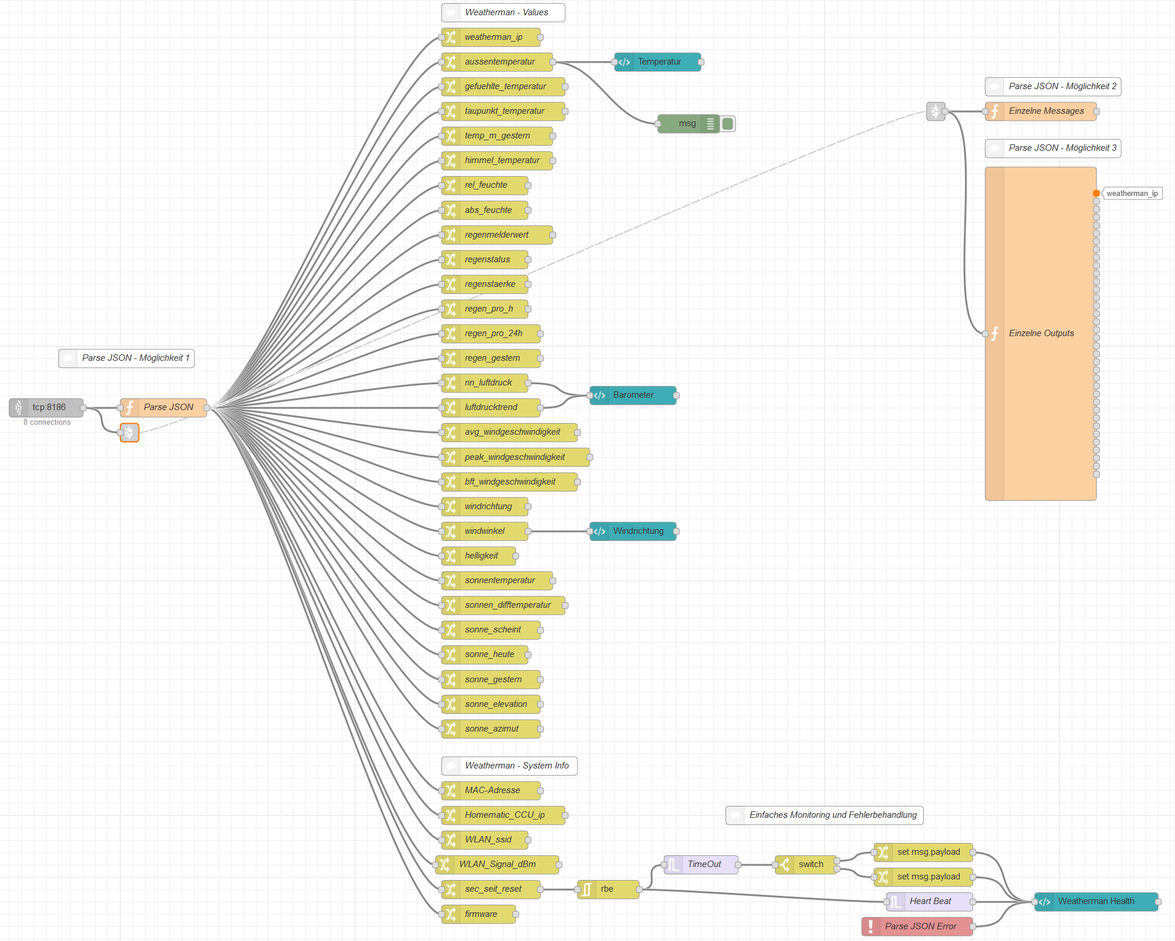
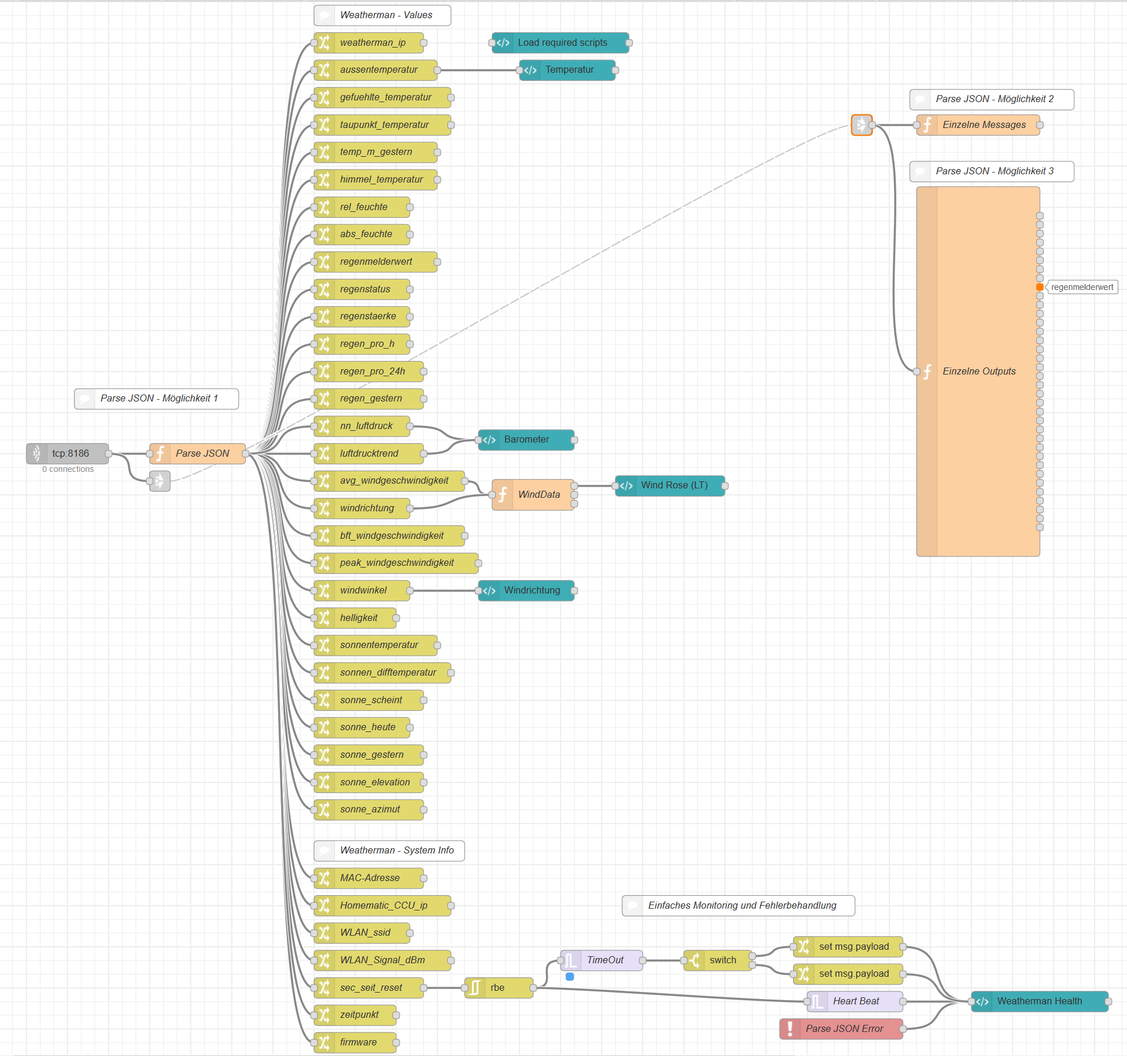
Add German description (#2)

Changed region(s): [[0.0, 0.0, 1.0, 1.0], [0.75, 0.0623, 1.0, 0.5299]]

diff --git a/flow.md b/flow.md
@@ -10,7 +10,7 @@
         "id": "47595dc.ba94324",
         "type": "tcp in",
         "z": "b016607a.570c28",
-        "name": "",
+        "name": "Listen Weatherman",
         "server": "server",
         "host": "",
         "port": "8186",
@@ -19,7 +19,7 @@
         "newline": "",
         "topic": "",
         "base64": false,
-        "x": 100,
+        "x": 110,
         "y": 800,
         "wires": [
             [
@@ -208,7 +208,7 @@
             "6ff5d495.9ca94c",
             "b1c34c3a.cf0f18"
         ],
-        "x": 1230,
+        "x": 1256,
         "y": 1640,
         "wires": [
             [
@@ -1438,13 +1438,13 @@
         "id": "30adad7a.1c38aa",
         "type": "rbe",
         "z": "b016607a.570c28",
-        "name": "",
+        "name": "WatchDog",
         "func": "rbe",
         "gap": "",
         "start": "",
         "inout": "out",
         "property": "payload",
-        "x": 730,
+        "x": 754,
         "y": 1580,
         "wires": [
             [
@@ -1467,7 +1467,7 @@
         "reset": "1",
         "bytopic": "all",
         "name": "TimeOut",
-        "x": 880,
+        "x": 906,
         "y": 1540,
         "wires": [
             [
@@ -1588,11 +1588,11 @@
         "order": 0,
         "width": "5",
         "height": "5",
-        "format": "<script type=\"text/javascript\" src=\"/addons/red/static/scripts/steelseries-min.js\"></script>\n<script type=\"text/javascript\" src=\"/addons/red/static/scripts/tween-min.js\"></script>\n\n<script>\nvar TrafLight;\nTrafLight = new steelseries.TrafficLight('canvasTrafLight', {\n              width: 100,\n              height: 200\n            });\n\n(function(scope){\n  scope.$watch('msg', function(msg) {\n    if (msg.payload === 1) {\n      TrafLight.setGreenOn(true);\n    } else if (msg.payload === 0) {\n      TrafLight.setGreenOn(false);\n    } else if (msg.payload === 'con_ok') {\n      TrafLight.setRedOn(false);\n      scope.conStatus = 'Connected';\n    } else if (msg.payload === 'con_timeout') {\n      TrafLight.setRedOn(true);\n      scope.conStatus = 'Connection Timeout';\n    } else if (msg.error !== undefined) {\n      TrafLight.setYellowOn(true);\n      scope.jsonStatus = 'JSON Error'\n    } \n  });\n}(scope));\nscope.conStatus = 'Connected';\nscope.jsonStatus = 'JSON OK';\n\n</script>\n\n\n<table width=\"100%\" border=\"0\">\n  <tbody>\n    <tr>\n      <td width=\"105\" rowspan=\"3\"><canvas id=\"canvasTrafLight\" width=\"100\" height=\"200\"></canvas></td>\n      <td>{{conStatus}}</td>\n    </tr>\n    <tr>\n      <td>{{jsonStatus}}</td>\n    </tr>\n    <tr>\n      <td>Heart Beat {{msg.timestamp}}</td>\n    </tr>\n  </tbody>\n</table>",
+        "format": "<script>\nvar TrafLight;\nTrafLight = new steelseries.TrafficLight('canvasTrafLight', {\n  width: 100,\n  height: 200\n});\n\n(function(scope){\n  scope.$watch('msg', function(msg) {\n    if (msg.payload !== undefined) {\n      if (msg.payload === 1) {\n        TrafLight.setGreenOn(true);\n      } else if (msg.payload === 0) {\n        TrafLight.setGreenOn(false);\n      } else if (msg.payload === 'con_ok') {\n        TrafLight.setRedOn(false);\n        scope.conStatus = 'Connected';\n      } else if (msg.payload === 'con_timeout') {\n        TrafLight.setRedOn(true);\n        scope.conStatus = 'Connection Timeout';\n      } else if (msg.error !== undefined) {\n        TrafLight.setYellowOn(true);\n        scope.jsonStatus = 'JSON Error';\n      }\n    }\n  });\n}(scope));\nscope.conStatus = 'Connected';\nscope.jsonStatus = 'JSON OK';\n</script>\n\n\n<table width=\"100%\" border=\"0\">\n  <tbody>\n    <tr>\n      <td width=\"105\" rowspan=\"3\"><canvas id=\"canvasTrafLight\" width=\"100\" height=\"200\"></canvas></td>\n      <td>{{conStatus}}</td>\n    </tr>\n    <tr>\n      <td>{{jsonStatus}}</td>\n    </tr>\n    <tr>\n      <td>Heart Beat {{msg.timestamp}}</td>\n    </tr>\n  </tbody>\n</table>",
         "storeOutMessages": true,
         "fwdInMessages": true,
         "templateScope": "local",
-        "x": 1520,
+        "x": 1546,
         "y": 1600,
         "wires": [
             []
@@ -1612,7 +1612,7 @@
         "reset": "",
         "bytopic": "all",
         "name": "Heart Beat",
-        "x": 1250,
+        "x": 1276,
         "y": 1600,
         "wires": [
             [
@@ -1639,7 +1639,7 @@
         "from": "",
         "to": "",
         "reg": false,
-        "x": 1240,
+        "x": 1266,
         "y": 1520,
         "wires": [
             [
@@ -1665,7 +1665,7 @@
         "checkall": "true",
         "repair": false,
         "outputs": 2,
-        "x": 1050,
+        "x": 1076,
         "y": 1540,
         "wires": [
             [
@@ -1695,7 +1695,7 @@
         "from": "",
         "to": "",
         "reg": false,
-        "x": 1240,
+        "x": 1266,
         "y": 1560,
         "wires": [
             [
@@ -1750,7 +1750,7 @@
         "order": 0,
         "width": "3",
         "height": "6",
-        "format": "<script type=\"text/javascript\" src=\"/addons/red/static/scripts/steelseries-min.js\"></script>\n<script type=\"text/javascript\" src=\"/addons/red/static/scripts/tween-min.js\"></script>\n\n<script>\nvar linearThermo;\nlinearThermo = new steelseries.Linear('canvasLinearThermo', {\n                 width: 140,\n                 height: 320,\n                 gaugeType: steelseries.GaugeType.TYPE2,\n                 titleString: \"Außentemperatur\",\n                 unitString: \"°C\",\n                 ledVisible: false,\n                 lcdVisible: true,\n                 thresholdRising: false,\n                 thresholdVisible: false,\n                 niceScale: true,\n                 minValue: -25,\n                 maxValue: 40\n               });\n                    \nlinearThermo.setFrameDesign(steelseries.FrameDesign.BLACK_METAL);\nlinearThermo.setBackgroundColor(steelseries.BackgroundColor.BRUSHED_METAL);\nlinearThermo.setValueAnimated(0);\nlinearThermo.setMaxValue(40);\n\n(function(scope){ \n  scope.$watch('msg', function(msg) {\n    if (msg.payload !== undefined && msg.topic === '/weatherman/status/w_temperature') {\n      linearThermo.setValueAnimated(msg.payload);\n      if (msg.payload > 0) {\n        linearThermo.setMaxValue(msg.payload + 2);\n        linearThermo.setMinValue(0);\n      } else if (msg.payload < 0) {\n        linearThermo.setMaxValue(0);\n        linearThermo.setMinValue(msg.payload - 2);\n      }\n    }\n  });\n})(scope);\n</script>\n\n<canvas id=\"canvasLinearThermo\" width=\"140\" height=\"320\"></canvas>\n",
+        "format": "<script>\nvar linearThermo;\nlinearThermo = new steelseries.Linear('canvasLinearThermo', {\n                 width: 140,\n                 height: 320,\n                 gaugeType: steelseries.GaugeType.TYPE2,\n                 titleString: \"Außentemperatur\",\n                 unitString: \"°C\",\n                 ledVisible: false,\n                 lcdVisible: true,\n                 thresholdRising: false,\n                 thresholdVisible: false,\n                 niceScale: true,\n                 minValue: -25,\n                 maxValue: 40\n               });\n                    \nlinearThermo.setFrameDesign(steelseries.FrameDesign.BLACK_METAL);\nlinearThermo.setBackgroundColor(steelseries.BackgroundColor.BRUSHED_METAL);\nlinearThermo.setValueAnimated(0);\nlinearThermo.setMaxValue(40);\n\n(function(scope){ \n  scope.$watch('msg', function(msg) {\n    if (msg.payload !== undefined && msg.topic === '/weatherman/status/w_temperature') {\n      linearThermo.setValueAnimated(msg.payload);\n      if (msg.payload > 0) {\n        linearThermo.setMaxValue(msg.payload + 2);\n        linearThermo.setMinValue(0);\n      } else if (msg.payload < 0) {\n        linearThermo.setMaxValue(0);\n        linearThermo.setMinValue(msg.payload - 2);\n      }\n    }\n  });\n})(scope);\n</script>\n\n<canvas id=\"canvasLinearThermo\" width=\"140\" height=\"320\"></canvas>\n",
         "storeOutMessages": true,
         "fwdInMessages": true,
         "templateScope": "local",
@@ -1855,7 +1855,7 @@
         "z": "b016607a.570c28",
         "name": "Einfaches Monitoring und Fehlerbehandlung",
         "info": "",
-        "x": 1080,
+        "x": 1106,
         "y": 1460,
         "wires": []
     },
@@ -1900,7 +1900,7 @@
         "order": 0,
         "width": "5",
         "height": "5",
-        "format": "<script>\n\n/*\n * Version 6 of the Windrose/Radar gauge\n * Originally created by Mark Crossley\n * Source: https://www.weather-watch.com/smf/index.php/topic,55071.0.html\n *\n */\n\n\n// Create some global variables to hold references to the buffers\nvar g_bufferRadar, g_bufferRadarFrame, g_bufferRadarBackground,\n    g_bufferRadarForeground, g_ctxRadarGauge;\nvar g_radarPlotSize;\n\n// Global variables that already exist in gauges-ss, if merging into gauge-ss, you\n// DO NOT need to add these\nvar g_size = 281;\nvar data = {};\nvar g_frameDesign = steelseries.FrameDesign.BLACK_METAL;\nvar g_background = steelseries.BackgroundColor.BRUSHED_METAL;\nvar g_foreground = steelseries.ForegroundType.TYPE1;\nvar LANG = {};\nLANG.compass = ['N', 'NE', 'E', 'SE', 'S', 'SW', 'W', 'NW'];\n\n// Optional - background image - Already in gauges-ss\n//var g_imgPathURL = 'images/';\n//var g_imgSmall = document.createElement(\"img\");                     //  background image\n//g_imgSmall.setAttribute(\"src\", g_imgPathURL + \"logoLarge.png\");\n\nfunction init() {\n\n  // Calcuate the size of the gauge background and so the size of radar plot required\n  g_radarPlotSize = g_size * 0.68;\n\n  // Create a hidden div to host the Radar plot\n  var div = document.createElement('div');\n  div.style.display = 'none';\n  document.body.appendChild(div);\n\n  // radar plot canvas buffer\n  g_bufferRadar = document.createElement('canvas');\n  g_bufferRadar.width = g_radarPlotSize;\n  g_bufferRadar.height = g_radarPlotSize;\n  g_bufferRadar.id = 'radarPlot';\n  div.appendChild(g_bufferRadar);\n\n  // Create a steelseries gauge frame\n  g_bufferRadarFrame = document.createElement('canvas');\n  g_bufferRadarFrame.width = g_size;\n  g_bufferRadarFrame.height = g_size;\n  var ctxFrame = g_bufferRadarFrame.getContext('2d');\n  steelseries.drawFrame(ctxFrame, g_frameDesign, g_size/2, g_size/2, g_size, g_size);\n\n  // Create a steelseries gauge background\n  g_bufferRadarBackground = document.createElement('canvas');\n  g_bufferRadarBackground.width = g_size;\n  g_bufferRadarBackground.height = g_size;\n  var ctxBackground = g_bufferRadarBackground.getContext('2d');\n  steelseries.drawBackground(ctxBackground, g_background, g_size/2, g_size/2, g_size, g_size);\n  // Optional - add a background image\n  //var drawSize = g_size * 0.831775;\n  //var x = (g_size - drawSize) / 2;\n  //ctxBackground.drawImage(g_imgSmall, x, x, drawSize, drawSize);\n\n  // Add the compass points\n  drawCompassPoints(ctxBackground, g_size);\n\n  // Create a steelseries gauge forground\n  g_bufferRadarForeground = document.createElement('canvas');\n  g_bufferRadarForeground.width = g_size;\n  g_bufferRadarForeground.height = g_size;\n  var ctxForegound = g_bufferRadarForeground.getContext('2d');\n  steelseries.drawForeground(ctxForegound, g_foreground, g_size, g_size, false);\n\n  // Get the context of the gauge canavs on the HTML page\n  g_ctxRadarGauge = document.getElementById('canvasGauge').getContext('2d');\n}\n\n\n// Just draw an empty gauge as a placeholder when the page loads\nfunction drawWindRose() {\n  // Paint the gauge frame\n  g_ctxRadarGauge.drawImage(g_bufferRadarFrame, 0, 0);\n\n  // Paint the gauge background\n  g_ctxRadarGauge.drawImage(g_bufferRadarBackground, 0, 0);\n\n  // Paint the gauge foreground\n  g_ctxRadarGauge.drawImage(g_bufferRadarForeground, 0, 0);\n}\n\n// Redraw the gauge with data\nfunction doWindRose() {\n  console.log(data.WindRoseData);\n  // Clear the gauge\n  g_ctxRadarGauge.clearRect(0, 0, g_size, g_size);\n\n  // Clear the existing radar plot\n  g_bufferRadar.width = g_bufferRadar.height = g_radarPlotSize;\n\n  // Create a new radar plot\n  var radar = new RGraph.Radar('radarPlot', data.WindRoseData);\n  radar.Set('chart.strokestyle', 'black');\n  radar.Set('chart.colors.alpha', 0.4);\n  radar.Set('chart.colors', ['red']);\n\n  radar.Set('chart.title', 'Wind  Rose');\n  radar.Set('chart.title.size', Math.ceil(0.045 * g_radarPlotSize));\n  radar.Set('chart.title.bold', false);\n  radar.Set('chart.gutter.top', 0.2 * g_radarPlotSize);\n  radar.Set('chart.gutter.bottom', 0.2 * g_radarPlotSize);\n\n  radar.Set('chart.tooltips.effect', 'snap');\n  radar.Set('chart.labels.axes', '');\n  radar.Set('chart.background.circles', true);\n  radar.Set('chart.radius', g_radarPlotSize/2);\n  radar.Draw();\n\n  // Paint the gauge frame\n  g_ctxRadarGauge.drawImage(g_bufferRadarFrame, 0, 0);\n\n  // Paint the gauge background\n  g_ctxRadarGauge.drawImage(g_bufferRadarBackground, 0, 0);\n\n  // Paint the radar plot\n  var offset = (g_size - g_radarPlotSize) / 2;\n  g_ctxRadarGauge.drawImage(g_bufferRadar, offset, offset);\n\n  // Paint the gauge foreground\n  g_ctxRadarGauge.drawImage(g_bufferRadarForeground, 0, 0);\n\n}\n\n\n// Helper function to put the compass points on the background\nfunction drawCompassPoints(ctx, size) {\n  ctx.save();\n  // set the font\n  ctx.font = (0.06 * size) + 'px serif';\n  ctx.fillStyle = '#000000';\n  ctx.textAlign = 'center';\n  ctx.textBaseline = 'middle';\n\n  // Draw the compass points\n  for (var i=0; i<4; i++) {\n    ctx.translate(size/2, size*0.125);\n    ctx.fillText(LANG.compass[i*2], 0, 0, size);\n    ctx.translate(-size/2, -size*0.125);\n    // Move to center\n    ctx.translate(size/2, size/2);\n    ctx.rotate(Math.PI/2);\n    ctx.translate(-size/2, -size/2);\n  }\n  ctx.restore();\n}\n// Initial setup\ninit();\ndrawWindRose();\n\n(function(scope) {\n  scope.$watch('msg', function(msg) {\n    if (msg.payload !== undefined) {\n      drawWindRose();\n      data.WindRoseData = msg.payload;\n      doWindRose();\n    }\n  });\n}(scope));\n\n</script>\n\n<canvas id=\"canvasGauge\" width=\"301\" height=\"301\">No canvas in your browser...sorry...</canvas>\n\n\n\n\n\n",
+        "format": "<script>\n\n/*\n * Version 6 of the Windrose/Radar gauge\n * Originally created by Mark Crossley\n * Source: https://www.weather-watch.com/smf/index.php/topic,55071.0.html\n *\n */\n\n\n// Create some global variables to hold references to the buffers\nvar g_bufferRadar, g_bufferRadarFrame, g_bufferRadarBackground,\n    g_bufferRadarForeground, g_ctxRadarGauge;\nvar g_radarPlotSize;\n\n// Global variables that already exist in gauges-ss, if merging into gauge-ss, you\n// DO NOT need to add these\nvar g_size = 281;\nvar data = {};\nvar g_frameDesign = steelseries.FrameDesign.BLACK_METAL;\nvar g_background = steelseries.BackgroundColor.BRUSHED_METAL;\nvar g_foreground = steelseries.ForegroundType.TYPE1;\nvar LANG = {};\nLANG.compass = ['N', 'NE', 'E', 'SE', 'S', 'SW', 'W', 'NW'];\n\n// Optional - background image - Already in gauges-ss\n//var g_imgPathURL = 'images/';\n//var g_imgSmall = document.createElement(\"img\");                     //  background image\n//g_imgSmall.setAttribute(\"src\", g_imgPathURL + \"logoLarge.png\");\n\nfunction init() {\n\n  // Calcuate the size of the gauge background and so the size of radar plot required\n  g_radarPlotSize = g_size * 0.68;\n\n  // Create a hidden div to host the Radar plot\n  var div = document.createElement('div');\n  div.style.display = 'none';\n  document.body.appendChild(div);\n\n  // radar plot canvas buffer\n  g_bufferRadar = document.createElement('canvas');\n  g_bufferRadar.width = g_radarPlotSize;\n  g_bufferRadar.height = g_radarPlotSize;\n  g_bufferRadar.id = 'radarPlot';\n  div.appendChild(g_bufferRadar);\n\n  // Create a steelseries gauge frame\n  g_bufferRadarFrame = document.createElement('canvas');\n  g_bufferRadarFrame.width = g_size;\n  g_bufferRadarFrame.height = g_size;\n  var ctxFrame = g_bufferRadarFrame.getContext('2d');\n  steelseries.drawFrame(ctxFrame, g_frameDesign, g_size/2, g_size/2, g_size, g_size);\n\n  // Create a steelseries gauge background\n  g_bufferRadarBackground = document.createElement('canvas');\n  g_bufferRadarBackground.width = g_size;\n  g_bufferRadarBackground.height = g_size;\n  var ctxBackground = g_bufferRadarBackground.getContext('2d');\n  steelseries.drawBackground(ctxBackground, g_background, g_size/2, g_size/2, g_size, g_size);\n  // Optional - add a background image\n  //var drawSize = g_size * 0.831775;\n  //var x = (g_size - drawSize) / 2;\n  //ctxBackground.drawImage(g_imgSmall, x, x, drawSize, drawSize);\n\n  // Add the compass points\n  drawCompassPoints(ctxBackground, g_size);\n\n  // Create a steelseries gauge forground\n  g_bufferRadarForeground = document.createElement('canvas');\n  g_bufferRadarForeground.width = g_size;\n  g_bufferRadarForeground.height = g_size;\n  var ctxForegound = g_bufferRadarForeground.getContext('2d');\n  steelseries.drawForeground(ctxForegound, g_foreground, g_size, g_size, false);\n\n  // Get the context of the gauge canavs on the HTML page\n  g_ctxRadarGauge = document.getElementById('canvasGauge').getContext('2d');\n}\n\n\n// Just draw an empty gauge as a placeholder when the page loads\nfunction drawWindRose() {\n  // Paint the gauge frame\n  g_ctxRadarGauge.drawImage(g_bufferRadarFrame, 0, 0);\n\n  // Paint the gauge background\n  g_ctxRadarGauge.drawImage(g_bufferRadarBackground, 0, 0);\n\n  // Paint the gauge foreground\n  g_ctxRadarGauge.drawImage(g_bufferRadarForeground, 0, 0);\n}\n\n// Redraw the gauge with data\nfunction doWindRose() {\n  //console.log(data.WindRoseData);\n  // Clear the gauge\n  g_ctxRadarGauge.clearRect(0, 0, g_size, g_size);\n\n  // Clear the existing radar plot\n  g_bufferRadar.width = g_bufferRadar.height = g_radarPlotSize;\n\n  // Create a new radar plot\n  var radar = new RGraph.Radar('radarPlot', data.WindRoseData);\n  radar.Set('chart.strokestyle', 'black');\n  radar.Set('chart.colors.alpha', 0.4);\n  radar.Set('chart.colors', ['red']);\n\n  radar.Set('chart.title', 'Wind  Rose');\n  radar.Set('chart.title.size', Math.ceil(0.045 * g_radarPlotSize));\n  radar.Set('chart.title.bold', false);\n  radar.Set('chart.gutter.top', 0.2 * g_radarPlotSize);\n  radar.Set('chart.gutter.bottom', 0.2 * g_radarPlotSize);\n\n  radar.Set('chart.tooltips.effect', 'snap');\n  radar.Set('chart.labels.axes', '');\n  radar.Set('chart.background.circles', true);\n  radar.Set('chart.radius', g_radarPlotSize/2);\n  radar.Draw();\n\n  // Paint the gauge frame\n  g_ctxRadarGauge.drawImage(g_bufferRadarFrame, 0, 0);\n\n  // Paint the gauge background\n  g_ctxRadarGauge.drawImage(g_bufferRadarBackground, 0, 0);\n\n  // Paint the radar plot\n  var offset = (g_size - g_radarPlotSize) / 2;\n  g_ctxRadarGauge.drawImage(g_bufferRadar, offset, offset);\n\n  // Paint the gauge foreground\n  g_ctxRadarGauge.drawImage(g_bufferRadarForeground, 0, 0);\n\n}\n\n\n// Helper function to put the compass points on the background\nfunction drawCompassPoints(ctx, size) {\n  ctx.save();\n  // set the font\n  ctx.font = (0.06 * size) + 'px serif';\n  ctx.fillStyle = '#000000';\n  ctx.textAlign = 'center';\n  ctx.textBaseline = 'middle';\n\n  // Draw the compass points\n  for (var i=0; i<4; i++) {\n    ctx.translate(size/2, size*0.125);\n    ctx.fillText(LANG.compass[i*2], 0, 0, size);\n    ctx.translate(-size/2, -size*0.125);\n    // Move to center\n    ctx.translate(size/2, size/2);\n    ctx.rotate(Math.PI/2);\n    ctx.translate(-size/2, -size/2);\n  }\n  ctx.restore();\n}\n\n(function(scope) {\n  init();\n  drawWindRose();\n  scope.$watch('msg', function(msg) {\n    if (msg.payload !== undefined) {\n    //  drawWindRose();\n      data.WindRoseData = msg.payload;\n      doWindRose();\n    }\n  });\n}(scope));\n\n</script>\n\n<canvas id=\"canvasGauge\" width=\"301\" height=\"301\">No canvas in your browser...sorry...</canvas>\n\n\n\n\n\n",
         "storeOutMessages": true,
         "fwdInMessages": true,
         "templateScope": "local",

diff --git a/README_DE.md b/README_DE.md
@@ -1,0 +1,205 @@
+
+# node-red-contrib-weatherman
+
+Dieser Flow erlaubt es die JSON Daten des [Weatherman's](https://www.stall.biz/project/weatherman-die-perfekte-wetterstation-fuer-die-hausautomation) zu verarbeiten und in einem Dashboard zu visualisieren. Dieser Flow geht von der Verwendung auf einer CCU3 / [RaspberryMatic](https://github.com/jens-maus/RaspberryMatic#raspberrymatic) und [RedMatic](https://github.com/hobbyquaker/RedMatic) aus. Beispielhaft wird dargestellt:
+
+ - 3 Möglichkeiten JSON auszulesen
+ - Einfache Möglichkeit den Weatherman und die Verbindung zu überwachen
+ - Eine einfache UI unter Verwendung von [RGraph](https://www.rgraph.net/) und [Steelseries Gauges](https://github.com/HanSolo/SteelSeries-Canvas)
+   - [Demo Radial](http://www.wilmslowastro.com/steelseries/demoRadial.html) 
+   - [Demo Linear](http://www.wilmslowastro.com/steelseries/demoLinear.html)
+   - [Demo Extra](http://www.wilmslowastro.com/steelseries/demoExtras.html)
+   - [Demo Traffic Light](http://www.wilmslowastro.com/steelseries/demoTrafficLight.html)
+   - [Demo Radar](http://www.wilmslowastro.com/steelseries/radar/radar.html)
+   - [Demo Bulb](http://www.wilmslowastro.com/steelseries/demoLightBulb.html)
+
+Die hier dargestellte Visualisierung soll nur als Anregung dienen und die obigen Beispiele zeigen, welche Möglichkeiten die Steelseries Gauges noch bieten.
+
+Sollte hier jemand schicke Ergänzungen vornehmen, würde ich mich über ein Pull-Request oder ein Teilen des Flows freuen.
+
+## Flow
+
+<img src="https://raw.githubusercontent.com/Sineos/node-red-contrib-weatherman/master/src_readme/flow.png" width="400"/>
+
+### Import Flow
+
+Den Inhalt von [raw flow.md](https://raw.githubusercontent.com/Sineos/node-red-contrib-weatherman/master/flow.md) kopieren und in Node-Red importieren.
+
+## Dashboard
+
+<img src="https://raw.githubusercontent.com/Sineos/node-red-contrib-weatherman/master/src_readme/dash.png" width="400"/>
+
+## Vorbereitungen
+
+### Weatherman
+
+Der Weatherman sendet seine Daten standardmäßig zum lighthttp proxy der CCU auf Port 8181. Da hier die Integration über RedMatic erfolgen soll, muss der Port in Weatherman geändert werden, da der Port nicht doppelt von der CCU und RedMatic verwendet werden kann.
+
+Die Änderung des Ports erfolgt über: `http://<ip weatherman>/param:12:<port>`
+
+Der Flow hier verwendet z.B. den Port 8186
+
+Für diese Anwendung ist eine minimale Firmware-Version v65 Voraussetzung
+
+### RedMatic
+
+In RedMatic bzw. Node Red muss ein `httpStatic` Verzeichnis eingerichtet werden, um die zusätzlichen Skript-Bibliotheken von RGraph und SteelSeries verwenden zu können.
+
+#### SSH Zugang aktivieren
+
+Um die entsprechenden Einstellungen vornehmen zu können muss der SSH Zugang aktiviert werden. Eine kurze Anleitung findet sich z.B. [hier](https://homematic.simdorn.net/ssh-zugang-auf-ccu2-einrichten/).
+
+#### httpStatic Verzeichnis und Skript Dateien 
+
+Mit dem SSH Zugang wird ein neues Verzeichnis für die entsprechenden Skripte angelegt. Der Flow hier verwendet:
+
+    /usr/local/sdcard/www/addons/red/static/scripts
+Dieses Verzeichnis muss angelegt werden und folgende Dateien müssen hochgeladen werden:
+
+- [steelseries-min.js](https://github.com/HanSolo/SteelSeries-Canvas/blob/master/steelseries-min.js)
+- [tween-min.js](https://github.com/HanSolo/SteelSeries-Canvas/blob/master/tween-min.js)
+- `RGraph.common.core.js` und `RGraph.radar.js` aus dem [minified RGraph zip](https://www.rgraph.net/download.html)
+
+#### httpStatic aktivieren
+
+Um das, im vorherigen Schritt angelegte, Verzeichnis in Node-Red bekannt zu machen, muss die Datei `settings.json` editiert werden. In RedMatic liegt diese unter:
+
+    /usr/local/addons/redmatic/etc/settings.json
+Diese Datei muss um den Eintrag `"httpStatic": "/usr/local/sdcard/www"` ergänzt werden und sieht dann beispielhaft so aus:
+```
+{
+	"uiPort": 1880,
+	"uiHost": "127.0.0.1",
+	"flowFile": "flows.json",
+	"userDir": "/usr/local/addons/redmatic/var",
+	"httpRoot": "/addons/red",
+	"httpStatic": "/usr/local/sdcard/www",
+	"logging": {
+		"ain": {
+			"level": "info",
+			"metrics": false,
+			"audit": false
+		}
+	}
+} 
+```
+
+Im Anschluss zu diesen Einstellungen muss RedMatic neu gestartet werden.
+
+## Konfiguration der einzelnen Nodes
+
+In der weiteren Erklärung wird auf einzelne Nodes näher eingegangen.
+
+### TCP in Node: Listen Weatherman
+
+https://raw.githubusercontent.com/Sineos/node-red-contrib-weatherman/master/src_readme/tcp_in.png" width="400"/>
+
+#### Beschreibung
+
+Verbindungspunkt zum Weatherman.
+
+#### Funktion
+
+ - Öffnet einen Server Port (hier 8186) zu dem sich der Weatherman periodisch verbindet
+ - Das eingehende JSON Paket wird erstmal als einfache Zeichenkette weitergegeben 
+
+### Function Node: Parse JSON
+
+https://raw.githubusercontent.com/Sineos/node-red-contrib-weatherman/master/src_readme/function_parse1.png" width="400"/>
+
+#### Beschreibung
+
+Beispielhaft stellt der Flow 3 verschiedene Möglichkeiten dar, wie das Weatherman JSON verarbeitet werden kann. Das JSON hat hier eine Besonderheit, da es mit einem `End Of Transmission (EOT)` Zeichen endet, welches nicht zu den Daten gehört, aber praktisch ist, da man einen kompletten Empfang damit validieren kann.
+
+Die 3 Möglichkeiten sind:
+
+ 1. JSON auslesen und in folgenden Nodes auf die einzelnen Daten zugreifen
+ 2. JSON auslesen und über einen Output die Daten als einzelne Nachrichten verschicken
+ 3. JSON auslesen und über n Outputs die Daten zur Weiterverarbeitung zur Verfügung stellen
+
+#### Funktion
+
+ - Mit der Variable `BasePath` wird der erste Teil der späteren `msg.topic` gesetzt. Dieser BasePath wird jeweils um den Namen des entsprechenden Datenpunkts vom Weatherman ergänzt
+ - Über `msg.timestamp` wird den Daten jeweils noch die aktuelle Zeit mitgegeben  
+ - Mit `node.error` wird ein Fehler-Event erzeugt, falls es beim Parsen der Daten Probleme gibt, z.B. kein EOT gefunden oder bei einem fehlerhaften JSON Datensatz 
+ - Bei Möglichkeit #2 und #3 wird der jeweiligen Nachricht noch über `msg.unit` die entsprechende Messgröße mitgegeben
+
+### Change Node: weatherman_ip
+
+https://raw.githubusercontent.com/Sineos/node-red-contrib-weatherman/master/src_readme/change_ip.png " width="400"/>
+
+#### Beschreibung
+
+Die gesamte Reihe an Change Nodes zerlegt das geparste JSON Paket in seine Bestandteile und stellt damit die gemessenen Werte einzeln zur Verfügung.
+
+Mit `payload.vars.0` wird der erste Werteblock im JSON angesprochen, mit `payload.vars.1` der zweite usw.
+
+Sollte sich mit späteren Weatherman Firmware Versionen die Reihenfolge der Daten ändern, ist hier entsprechend anzupassen, da sonst die Temperatur ggf. beim Wind landet etc.
+
+#### Funktion
+
+ - Mit dem JSONata Ausdruck `$$.topic & $$.payload.vars[0].homematic_name` wird das vorhandene `msg.topic` (siehe `BasePath` aus Parse JSON) genommen und um den Wert des `homematic_name` Schlüssels ergänzt.
+ - Der Wert aus `payload.vars.0.unit` wird `msg.unit` zugewiesen
+ - Der Wert aus `payload.vars.0.value` wird `msg.payload` zugewiesen
+
+### Template Node: Load required scripts
+
+https://raw.githubusercontent.com/Sineos/node-red-contrib-weatherman/master/src_readme/template_scripts.png " width="400"/>
+
+#### Beschreibung
+
+Stellt die, zur Visualisierung benötigten, Skript Bibliotheken global zur Verfügung.
+
+#### Funktion
+
+ - Lädt die Skripte welche unter [httpStatic Verzeichnis und Skript Dateien](#httpStatic-Verzeichnis-und-Skript-Dateien) auf die CCU kopiert wurden
+
+### Template Node: Windrichtung
+
+https://raw.githubusercontent.com/Sineos/node-red-contrib-weatherman/master/src_readme/template_winddir.png " width="400"/>
+
+#### Beschreibung
+
+An Hand dieses Beispiels wird kurz auf die Visualisierung eingegangen.
+
+#### Funktion
+
+    (function(scope){ 
+      scope.$watch('msg', function(msg) {
+        if (msg.payload !== undefined && msg.topic === '/weatherman/status/w_wind_dir') {
+          radialWind.setValueAnimated(msg.payload);
+        }
+      });
+    })(scope);
+
+ - Kern der Visualisierung ist jeweils diese function(scope): Diese wird benötigt um Nachrichten innerhalb eines Templates auch in einem Skript nutzen zu können, denn ansonsten stehen diese Informationen nur den (Angular) html Elementen zur Verfügung
+ - Im Rest der Visualisierungs-Templates wird dann jeweils über die SteelSeries Funktionalitäten eine Anzeige generiert und diese dann mit den entsprechenden Daten gefüttert
+
+### Function Node: WindData
+
+https://raw.githubusercontent.com/Sineos/node-red-contrib-weatherman/master/src_readme/function_winddata.png " width="400"/>
+
+#### Beschreibung
+
+Diese Funktion summiert, über angegebene Zeitintervalle, die aufgetretenen Windgeschwindigkeiten in den jeweiligen Windrichtungen, um damit im Folgenden ein Diagramm zu erzeugen aus dem sich die hauptsächliche Windrichtung(en) in diesem Intervall ablesen lassen.
+
+#### Funktion
+
+ - Mit den Konstanten `limitLongTerm`, `limitMediumTerm` und `limitShortTerm` können die Zeitintervalle (in Stunden) bestimmt werden in der der Wind beobachtet werden soll
+ - Für diese Zeitintervalle sammelt das Skript die aufgetretenen Windgeschwindigkeiten in den 8 Himmelsrichtungen (N, NE, E, SE, S, SW, W, NW) und summiert diese
+ - Die Ergebnisse werden in einem Array als `msg.payload` zur Verfügung gestellt, wobei die Node für jedes Zeitintervall einen eigenen Output nutzt
+
+### Nodes: Einfaches Monitoring und Fehlerbehandlung
+
+https://raw.githubusercontent.com/Sineos/node-red-contrib-weatherman/master/src_readme/error_handling.png " width="400"/>
+
+#### Beschreibung
+
+Dieser Block von Nodes überwacht den Weatherman und stellt im den Fehlerfall über eine Ampelvisualisierung dar.
+
+#### Funktion
+
+ - Die RBE Node hängt an dem `sec_seit_reset` Wert des Weatherman und lässt nur Werte durch, welche sich im Vergleich zum letzten gändert hat
+ - Der Trigger `TimeOut` wird mit jedem Wert zurückgesetzt. Sollte für länger als 2 Minuten kein Wert ankommen läuft der Timer ab und der Trigger sendet ein `false`. Dieses wird dann als Verbindungsabbruch gewertet und schaltet die Ampel auf rot
+ - Der Trigger `Heart Beat` lässt mit jeder Aktualisierung der Daten die grüne Ampel kurz blinken 
+ - `Parse JSON Error` reagiert auf `node.error`, welcher ggf. von den JSON Parse Funktionen erzeugt wird und schaltet in diesem Fall die Ampel auf gelb

diff --git a/README.md b/README.md
@@ -1,5 +1,7 @@
 # node-red-contrib-weatherman
 
+[German version of the ReadMe](https://raw.githubusercontent.com/Sineos/node-red-contrib-weatherman/master/README_DE.md) 
+
 A Node Red flow to parse [Weatherman's](https://www.stall.biz/project/weatherman-die-perfekte-wetterstation-fuer-die-hausautomation) JSON data. The flow offers:
 
  - 3 different ways to parse JSON
